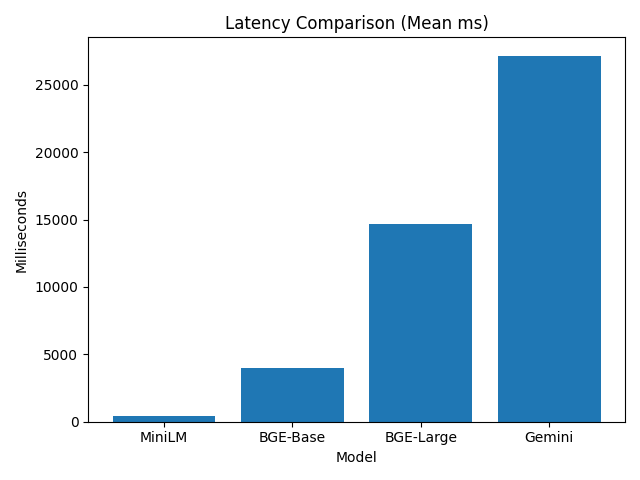
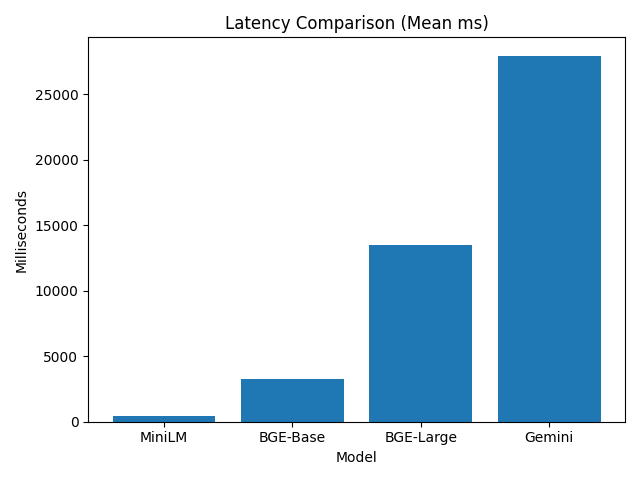
Added visualizations

diff --git a/run_benchmarks.py b/run_benchmarks.py
@@ -9,12 +9,11 @@ from benchmarks.cost_analysis import estimate_cost
 from gemini_embedding import embed_gemini
 from generate_ai_dataset import generate_dataset
 
-
-# ------------------ CHART GENERATION ------------------
+# CHART GENERATION
 def generate_charts(results):
     models = [r["model"] for r in results]
 
-    # ---- Retrieval Quality (NDCG@10) ----
+    # ---------- 1. NDCG@10 ----------
     ndcg_scores = [r["quality"]["NDCG@10"] for r in results]
 
     plt.figure()
@@ -26,7 +25,29 @@ def generate_charts(results):
     plt.savefig("results/retrieval_quality.png")
     plt.close()
 
-    # ---- Latency (Mean ms) ----
+    # ---------- 2. Recall@K (Grouped Bar) ----------
+    recall_1 = [r["quality"]["Recall@1"] for r in results]
+    recall_5 = [r["quality"]["Recall@5"] for r in results]
+    recall_10 = [r["quality"]["Recall@10"] for r in results]
+
+    x = range(len(models))
+    width = 0.25
+
+    plt.figure()
+    plt.bar(x, recall_1, width, label="Recall@1")
+    plt.bar([i + width for i in x], recall_5, width, label="Recall@5")
+    plt.bar([i + 2 * width for i in x], recall_10, width, label="Recall@10")
+
+    plt.xticks([i + width for i in x], models)
+    plt.title("Recall@K Comparison")
+    plt.ylabel("Recall")
+    plt.xlabel("Model")
+    plt.legend()
+    plt.tight_layout()
+    plt.savefig("results/recall_at_k.png")
+    plt.close()
+
+    # ---------- 3. Latency (Mean ms) ----------
     latency_means = [r["latency"]["mean_ms"] for r in results]
 
     plt.figure()
@@ -38,22 +59,40 @@ def generate_charts(results):
     plt.savefig("results/latency.png")
     plt.close()
 
+    # ---------- 4. Quality vs Latency (Scatter) ----------
+    plt.figure()
+    for r in results:
+        plt.scatter(
+            r["latency"]["mean_ms"],
+            r["quality"]["NDCG@10"],
+            label=r["model"]
+        )
 
-# ------------------ MAIN ------------------
+    plt.title("Quality vs Latency Trade-off")
+    plt.xlabel("Mean Latency (ms)")
+    plt.ylabel("NDCG@10")
+    plt.legend()
+    plt.tight_layout()
+    plt.savefig("results/quality_vs_latency.png")
+    plt.close()
+
+
+# =====================================================
+# MAIN
+# =====================================================
 def main():
-    # -------- Generate AI Dataset --------
+    # ---------- Generate AI Dataset ----------
     documents, queries = generate_dataset(num_samples=100)
 
-    # -------- Load Model Config --------
+    # ---------- Load Model Config ----------
     with open("benchmark_config.yaml") as f:
         cfg = yaml.safe_load(f)
 
     models = cfg["models"]
-
     os.makedirs("results", exist_ok=True)
     results = []
 
-    # -------- Run Benchmarks --------
+    # ---------- Run Benchmarks ----------
     for model_cfg in models:
         name = model_cfg["name"]
         print(f"Running benchmark for {name}")
@@ -64,10 +103,10 @@ def main():
         else:
             embed_fn = embed_gemini
 
-        # ---- Document embeddings ----
+        # Document embeddings
         doc_embeddings = embed_fn(documents)
 
-        # ---- Query embeddings ----
+        # Query embeddings
         query_data = []
         for q in queries:
             q_emb = embed_fn([q["query"]])[0]
@@ -87,10 +126,10 @@ def main():
             "cost": cost
         })
 
-    # -------- Generate Charts --------
+    # ---------- Generate Charts ----------
     generate_charts(results)
 
-    # -------- Write Article --------
+    # ---------- Write Article ----------
     with open("results/article.md", "w") as report:
         report.write("# Text Embedding Model Benchmark\n\n")
 
@@ -98,8 +137,8 @@ def main():
         report.write(
             "This benchmark uses an AI-generated synthetic dataset consisting of "
             "100 technical paragraphs and 100 corresponding questions. "
-            "Each question is mapped to a known relevant document, enabling "
-            "controlled and reproducible evaluation of retrieval performance.\n\n"
+            "Each query maps to a known relevant document, enabling controlled "
+            "and reproducible evaluation.\n\n"
         )
 
         report.write("## TL;DR\n")
@@ -108,7 +147,7 @@ def main():
         report.write("- Best balance: BGE-Base\n")
         report.write("- API-based option without billing: Gemini\n\n")
 
-        # ---- Retrieval Quality Table ----
+        # ---------- Retrieval Quality ----------
         report.write("## Retrieval Quality Results\n\n")
         report.write("| Model | Recall@1 | Recall@5 | Recall@10 | NDCG@10 |\n")
         report.write("|------|----------|----------|-----------|---------|\n")
@@ -121,8 +160,9 @@ def main():
 
         report.write("\n### Retrieval Quality Visualization\n\n")
         report.write("![Retrieval Quality](retrieval_quality.png)\n\n")
+        report.write("![Recall@K](recall_at_k.png)\n\n")
 
-        # ---- Latency Table ----
+        # ---------- Latency ----------
         report.write("## Latency Benchmark (ms)\n\n")
         report.write("| Model | Mean | P95 | P99 |\n")
         report.write("|------|------|-----|-----|\n")
@@ -135,8 +175,9 @@ def main():
 
         report.write("\n### Latency Visualization\n\n")
         report.write("![Latency](latency.png)\n\n")
+        report.write("![Quality vs Latency](quality_vs_latency.png)\n\n")
 
-        # ---- Cost Table ----
+        # ---------- Cost ----------
         report.write("## Cost Analysis\n\n")
         report.write("| Model | Cost / 1M Tokens | Notes |\n")
         report.write("|------|------------------|-------|\n")
@@ -146,14 +187,14 @@ def main():
                 f"| {r['model']} | ${c['cost_per_1M_tokens']:.2f} | {c['note']} |\n"
             )
 
-        # ---- Decision Matrix ----
+        # ---------- Decision Matrix ----------
         report.write("\n## Decision Matrix\n")
         report.write("- Choose **MiniLM** for low-latency, high-throughput systems\n")
         report.write("- Choose **BGE-Base** for balanced quality and performance\n")
         report.write("- Choose **BGE-Large** for maximum retrieval accuracy\n")
         report.write("- Choose **Gemini** for API-based embeddings without infrastructure\n\n")
 
-        # ---- Reproducibility ----
+        # ---------- Reproducibility ----------
         report.write("## Reproducibility\n\n")
         report.write("```bash\n")
         report.write("python -m venv venv\n")

diff --git a/results/article.md b/results/article.md
@@ -1,7 +1,7 @@
 # Text Embedding Model Benchmark
 
 ## Dataset Description
-This benchmark uses an AI-generated synthetic dataset consisting of 100 technical paragraphs and 100 corresponding questions. Each question is mapped to a known relevant document, enabling controlled and reproducible evaluation of retrieval performance.
+This benchmark uses an AI-generated synthetic dataset consisting of 100 technical paragraphs and 100 corresponding questions. Each query maps to a known relevant document, enabling controlled and reproducible evaluation.
 
 ## TL;DR
 - Fastest model: MiniLM
@@ -13,27 +13,31 @@ This benchmark uses an AI-generated synthetic dataset consisting of 100 technica
 
 | Model | Recall@1 | Recall@5 | Recall@10 | NDCG@10 |
 |------|----------|----------|-----------|---------|
-| MiniLM | 0.10 | 0.50 | 0.84 | 0.41 |
-| BGE-Base | 0.10 | 0.50 | 0.84 | 0.41 |
-| BGE-Large | 0.10 | 0.50 | 0.84 | 0.41 |
-| Gemini | 0.10 | 0.50 | 0.84 | 0.41 |
+| MiniLM | 0.10 | 0.50 | 0.88 | 0.42 |
+| BGE-Base | 0.10 | 0.50 | 0.88 | 0.42 |
+| BGE-Large | 0.10 | 0.50 | 0.88 | 0.42 |
+| Gemini | 0.10 | 0.50 | 0.88 | 0.42 |
 
 ### Retrieval Quality Visualization
 
 ![Retrieval Quality](retrieval_quality.png)
 
+![Recall@K](recall_at_k.png)
+
 ## Latency Benchmark (ms)
 
 | Model | Mean | P95 | P99 |
 |------|------|-----|-----|
-| MiniLM | 452.54 | 471.22 | 472.39 |
-| BGE-Base | 3984.10 | 4502.39 | 4504.92 |
-| BGE-Large | 14665.42 | 15159.83 | 15161.74 |
-| Gemini | 27170.48 | 32115.26 | 32899.31 |
+| MiniLM | 472.50 | 491.71 | 493.45 |
+| BGE-Base | 3266.58 | 3519.15 | 3549.81 |
+| BGE-Large | 13518.19 | 16167.38 | 16470.82 |
+| Gemini | 27957.55 | 37755.17 | 39986.12 |
 
 ### Latency Visualization
 
 ![Latency](latency.png)
+
+![Quality vs Latency](quality_vs_latency.png)
 
 ## Cost Analysis
 
